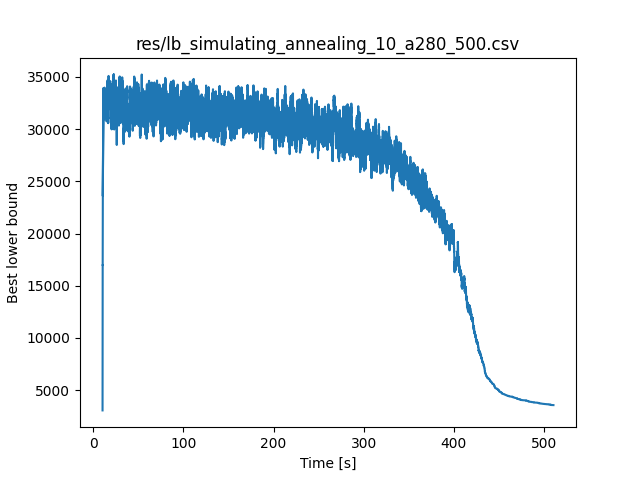
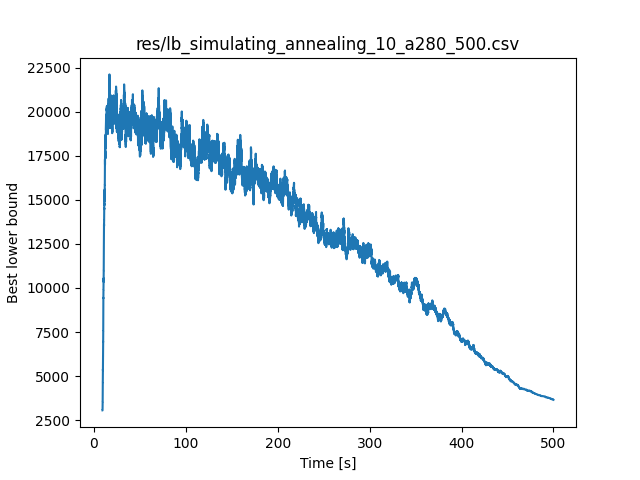
SA start with n_greedy_10, add SA lb profile, latex constructive update

diff --git a/Latex/refining-heuristics.tex b/Latex/refining-heuristics.tex
@@ -53,26 +53,26 @@ In fig.s \ref{fig:a280_10} and \ref{fig:a280_25} can be compared the \texttt{Gre
 \begin{figure}[!h]
 	\begin{subfigure}{.5\columnwidth}
 		\centering
-		\includegraphics[width=0.9\columnwidth]{../res/a280_10.png}
-		\caption{\texttt{Greedy}: cost = 2975, time = 4s}
+		\includegraphics[width=\columnwidth]{../res/a280_10.png}
+		\caption{\texttt{Greedy}: cost=2975, time=4s}
 		\label{fig:a280_10}
 	\end{subfigure}
 	\begin{subfigure}{.5\columnwidth}
 		\centering
-		\includegraphics[width=0.9\columnwidth]{../res/a280_25.png}
-		\caption{\texttt{greedy\_best\_two\_opt}: cost = 2685, time = 4s.}
+		\includegraphics[width=\columnwidth]{../res/a280_25.png}
+		\caption{\texttt{greedy\_best\_two\_opt}: cost=2685, time=4s.}
 		\label{fig:a280_25}
 	\end{subfigure}
 	\begin{subfigure}{.5\columnwidth}
 		\centering
-		\includegraphics[width=0.9\columnwidth]{../res/lb_greedy_best_two_opt_a280.png}
+		\includegraphics[width=\columnwidth]{../res/lb_greedy_best_two_opt_a280.png}
 		\caption{The profile of the solution cost over time of the \texttt{best\_two\_opt} optimization.}
 		\label{fig:lb_greedy_best_two_opt_a280}
 	\end{subfigure}
 	\begin{subfigure}{.5\columnwidth}
 		\centering
-		\includegraphics[width=0.9\columnwidth]{../res/a280_0.png}
-		\caption{\texttt{subtour\_callback\_general}: cost = 2579, time = 8s.}
+		\includegraphics[width=\columnwidth]{../res/a280_0.png}
+		\caption{\texttt{subtour\_callback\_general}: cost=2579, time=8s.}
 		\label{fig:a280_0}
 	\end{subfigure}
 \end{figure}
@@ -80,19 +80,60 @@ In fig.s \ref{fig:a280_10} and \ref{fig:a280_25} can be compared the \texttt{Gre
 
 \begin{figure}[!h]
 	\centering
-	\begin{subfigure}{.9\textwidth}
+	\begin{subfigure}{.7\textwidth}
 		\centering
 		\includegraphics[width=\columnwidth]{../res/Lconstructives_refining_LA_time.png}
 		\caption{Performance profile in time domain.}
 		\label{fig:Lconstructives_refining_time}
 	\end{subfigure}
-	\begin{subfigure}{.9\textwidth}
+	\begin{subfigure}{.7\textwidth}
 		\centering
 		\includegraphics[width=\columnwidth]{../res/Lconstructives_refining_LA_lb.png}
 		\caption{Performance profile in solution cost domain.}
 		\label{fig:Lconstructives_refining_lb}
 	\end{subfigure}
+\caption{Performance profile of constructive heuristic}
+\label{fig:pp_Lconstructives_refining}
+\end{figure}
+
+The performance profile in fig. \ref{fig:pp_Lgreedy_refining} compare greedy algorithms with them \texttt{best\_two\_opt} optimization. It is clear that most of the execution time is required for the constructive heuristic, however the difference in term of cost optimization is done by the \texttt{best\_two\_opt}. In fig. \ref{fig:Lgreedy_refining_LA_lb} \texttt{n\_greedy\_best\_two\_opt} gain the solution of \texttt{greedy\_best\_two\_opt}, proving that it is not necessary to find the best tour created from the greedy, but is enough to compute ten random tour and than apply \texttt{best\_two\_opt} to find similar solution cost.
+
+\begin{figure}
+	\centering
+	\begin{subfigure}{.7\textwidth}
+		\centering
+		\includegraphics[width=\columnwidth]{../res/Lgreedy_refining_LA_time.png}
+		\caption{Performance profile in solution cost domain.}
+		\label{fig:Lgreedy_refining_LA_time}
+	\end{subfigure}
+	\begin{subfigure}{.7\textwidth}
+		\centering
+		\includegraphics[width=\columnwidth]{../res/Lgreedy_refining_LA_lb.png}
+		\caption{Performance profile in solution cost domain.}
+		\label{fig:Lgreedy_refining_LA_lb}
+	\end{subfigure}
 	\caption{Performance profile of constructive heuristic}
-	\label{fig:pp_Lconstructives_refining}
+	\label{fig:pp_Lgreedy_refining}
+\end{figure}
+
+
+The effectiveness of the refining heuristic depend from the warm start solution. In fig. \ref{fig:Lgrasp_insertion_refining_LA_lb} it is show that even if \texttt{heuristic\_insertion} generate shorter tour than \texttt{n\_grasp}, \texttt{n\_grasp\_best\_two\_opt} is better than \texttt{insertion\_best\_two\_opt}.
+
+\begin{figure}
+\centering
+\begin{subfigure}{.7\textwidth}
+	\centering
+	\includegraphics[width=\columnwidth]{../res/Lgrasp_insertion_refining_LA_time.png}
+	\caption{Performance profile in solution cost domain.}
+	\label{fig:Lgrasp_insertion_refining_LA_time}
+\end{subfigure}
+\begin{subfigure}{.7\textwidth}
+	\centering
+	\includegraphics[width=\columnwidth]{../res/Lgrasp_insertion_refining_LA_lb.png}
+	\caption{Performance profile in solution cost domain.}
+	\label{fig:Lgrasp_insertion_refining_LA_lb}
+\end{subfigure}
+\caption{Performance profile of constructive heuristic}
+\label{fig:pp_Lgrasp_insertion_refining}
 \end{figure}
 

diff --git a/Latex/constructive-heuristics.tex b/Latex/constructive-heuristics.tex
@@ -48,43 +48,43 @@ the resulting matrix will have a number of lines equal to the number of nodes an
 GRASP metaheuristic, as the name anticipate, is a Greedy constructive heuristic with some randomization. Indeed, for the TSP problem, instead of bring the closer isolated node as next, it's chose a random node between the $ G $ closest isolated nodes, where $ G = 3 $ in the tested implementation.
 The idea is that in TSP it's not always the closer to be the next node on the optimum tour. Moreover, in other metaheuristics that start from a solution and optimize it, a percentage of randomness is appreciated.
 
-In figure \ref{fig:att48_diff} can be compared of the optimum tour, \texttt{Greedy} and 4 different instances of \texttt{GRASP}. It's nice to see that the \texttt{Greedy} (fig \ref{fig:att48_GREEDY}) is pretty close to the optimal solution and also some instance of \texttt{GRASP} like \ref{fig:att48_GRASP2} and \ref{fig:att48_GRASP4}.
+In figure \ref{fig:att48_diff} can be compared of the optimum tour, \texttt{Greedy}, 3 different instances of \texttt{GRASP} and \texttt{heuristic\_insertion}. It's nice to see that the \texttt{Greedy} (fig \ref{fig:att48_GREEDY}) is pretty close to the optimal solution and also some instance of \texttt{GRASP} like \ref{fig:att48_GRASP2}. \texttt{heuristic\_insertion} in this example has no cross edges and as will be show in fig. \ref{fig:Lgrasp_insertion_refining_LA_lb} the refining phase of this solutions does not improve so much the tour cost.
 \begin{figure}[!h]
-	\begin{subfigure}{.5\textwidth}
+	\begin{subfigure}{.49\textwidth}
 		\centering
 		\includegraphics[width=\columnwidth]{../res/att48_0.png}
-		\caption{Optimal subtour: cost $ = 10628 $, time = $ 0.76 $ s}
+		\caption{Optimal subtour: cost=10628, time=0.76s}
 		\label{fig:att48_best}
 	\end{subfigure}
-	\begin{subfigure}{.5\textwidth}
+	\begin{subfigure}{.49\textwidth}
 		\centering
 		\includegraphics[width=\columnwidth]{../res/att48_10.png}
-		\caption{\texttt{Greedy}: cost $ = 12012 $, time = $ 10^{-6} $s}
+		\caption{\texttt{Greedy}: cost=12012, time=0.005s}
 		\label{fig:att48_GREEDY}
 	\end{subfigure}
-	\begin{subfigure}{.5\textwidth}
+	\begin{subfigure}{.49\textwidth}
 	\centering
 	\includegraphics[width=\columnwidth]{../res/att48_12_1.png}
-	\caption{\texttt{GRASP}: cost = 21824, time = $ 10^{-6} $s}
+	\caption{\texttt{GRASP}: cost=21824, time=0.001s}
 	\label{fig:att48_GRASP1}
 	\end{subfigure}
-	\begin{subfigure}{.5\textwidth}
+	\begin{subfigure}{.49\textwidth}
 	\centering
 	\includegraphics[width=\columnwidth]{../res/att48_12_2.png}
-	\caption{\texttt{GRASP}: cost = 12576, time = $ 10^{-6} $s}
+	\caption{\texttt{GRASP}: cost=12576, time=0.001s}
 	\label{fig:att48_GRASP2}
 	\end{subfigure}
-	\begin{subfigure}{.5\textwidth}
+	\begin{subfigure}{.49\textwidth}
 	\centering
 	\includegraphics[width=\columnwidth]{../res/att48_12_3.png}
-	\caption{\texttt{GRASP}: cost = 22179, time = $ 10^{-6} $s}
+	\caption{\texttt{GRASP}: cost=22179, time=0.001s}
 	\label{fig:att48_GRASP3}
 	\end{subfigure}
-	\begin{subfigure}{.5\textwidth}
+	\begin{subfigure}{.49\textwidth}
 	\centering
-	\includegraphics[width=\columnwidth]{../res/att48_12_4.png}
-	\caption{\texttt{GRASP}: cost = 13198, time = $ 10^{-6} $s}
-	\label{fig:att48_GRASP4}
+	\includegraphics[width=\columnwidth]{../res/att48_13.png}
+	\caption{\texttt{heuristic\_insertion}: cost=11197, time=0.0028s}
+	\label{fig:att48_insertion}
 	\end{subfigure}
 	\caption{Differences of \texttt{Greedy} and \texttt{GRASP} tour for att48.tsp instace.}
 	\label{fig:att48_diff}

diff --git a/tsp.c b/tsp.c
@@ -225,7 +225,7 @@ NUM			model_type				warm_start					heuristic						mip_opt							callback
 			return "heuristic_insertion_cplex";				// Heuristic Insertion (Warm Start for CPLEX)
 		case 23:
 			inst->model_type = 0;
-			inst->warm_start = 1;
+			inst->warm_start = 5;
 			inst->heuristic = 8;
 			return "simulating_annealing";				// greedy + Simulating Annealing
 		case 24:
@@ -2484,12 +2484,12 @@ int simulating_annealing(CPXENVptr env, tspinstance* inst, int* status) {
 	double extra_time = inst->timelimit * 5 / 100;
 	double remaining_time = inst->timelimit;
 	double temp_time = remaining_time;
-	
+
 	double temperature = INT_MAX;
 	double temperature_perc = 1.0;
-	double decrease = temperature * 90 / 100;	// -1 = 100%
+	double decrease = temperature * 99 / 100;	// -1 = 100%
 	double maxTemp = decrease == -1 ? (double)INT_MAX + 1e8 : temperature - decrease;
-	
+
 	double delta = -1;
 	double delta_perc = 1.0;
 	double K = 1.0;					// Boltzmann constant
@@ -2557,7 +2557,7 @@ int simulating_annealing(CPXENVptr env, tspinstance* inst, int* status) {
 				}
 				inst->best_lb = best_lb;
 				//push(&head_save, inst->best_lb, 0);
-				//if (inst->verbose >= 1) printf("%.1lf,%lf\n", best_lb, second() - inst->init_time);
+				if (inst->verbose >= 1) printf("%.1lf,%lf\n", best_lb, second() - inst->init_time);
 			}else {
 				if (inst->verbose > 100) {
 					printf("BAD Moves found and Accepted\n");													// Accepted bad move
@@ -2565,16 +2565,16 @@ int simulating_annealing(CPXENVptr env, tspinstance* inst, int* status) {
 				}
 				best_lb = inst->best_lb;
 				//push(&head_save, best_lb, 0);
-				//if (inst->verbose >= 1) printf("%.1lf,%lf\n", best_lb, second() - inst->init_time);
+				if (inst->verbose >= 1) printf("%.1lf,%lf\n", best_lb, second() - inst->init_time);
 			}
-		}else {																								// good move always accepted
+		}else {	 // good move always accepted
 			if (inst->verbose > 100) {
 				printf("GOOD Moves found and Accepted\n");
 				printf("LB update from -> to : [%f] -> [%f]\n", best_lb, inst->best_lb);
 			}
 			best_lb = inst->best_lb;
 			//push(&head_save, best_lb, 0);
-			//if (inst->verbose >= 1) printf("%.1lf,%lf\n", best_lb, second() - inst->init_time);
+			if (inst->verbose >= 1) printf("%.1lf,%lf\n", best_lb, second() - inst->init_time);
 
 			if (inst->best_lb < best_global_lb) {
 				if (inst->verbose >= 100) printf("BEST_LB update from -> to : [%f] -> [%f]\n", best_global_lb, inst->best_lb);
@@ -2586,8 +2586,6 @@ int simulating_annealing(CPXENVptr env, tspinstance* inst, int* status) {
 						best_global_sol[i] = 0.0;
 			}
 		}
-
-
 
 		single_step = (temp_time - remaining_time) / (inst->timelimit);
 		decrease = maxTemp * single_step;
